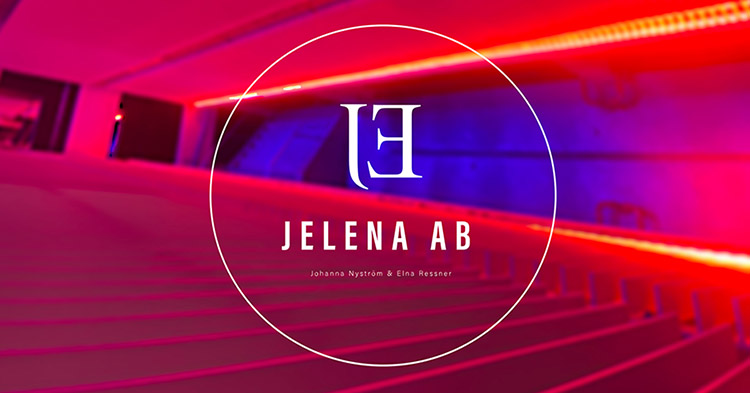
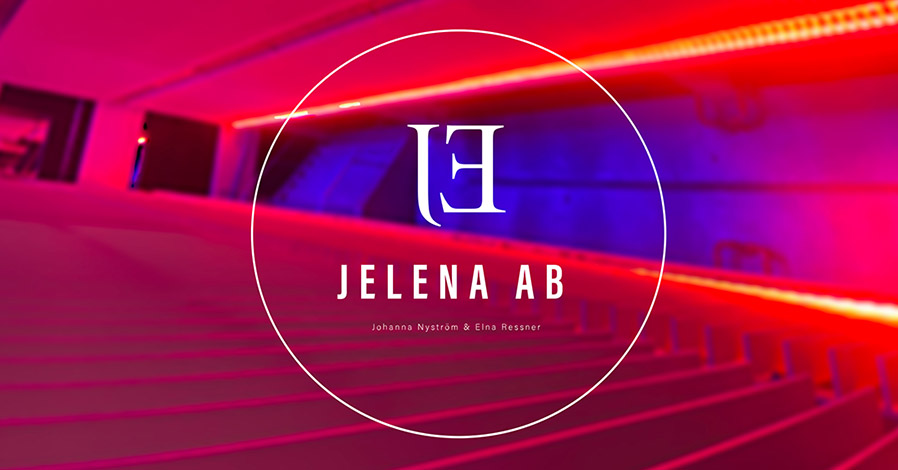
ändrat bild + jubiluem

diff --git a/content/posts/wuleum.md b/content/posts/wuleum.md
@@ -1,5 +1,5 @@
 ---
-title: "Jubileum"
+title: "JELENA AB - tio år!"
 date: 2023-11-20T09:03:20-08:00
 draft: false
 Cover:
@@ -8,7 +8,7 @@ Cover:
     caption: All copyrights reserved to JELENA AB 2023
 ---
 
-### Jubileum 
+
 
 Vi är mycket stolta över att i år fira JELENA AB:s 10-årsjubileum! Det har varit tio framgångsrika år av verksamhet och samarbete. Nu är det dags att få fira denna otroliga milstolpe tillsammans med vår interna koncern, närmaste samarbetspartners och vänner. Vi bjuder på en kväll av festligheter, god mat, och underhållning. Vi hoppas på en minnesvärd kväll med trevligt sällskap.
 Vi vill passa på att tacka er alla för det otroliga stöd och förtroende JELENA AB fått under dessa tio år. 
